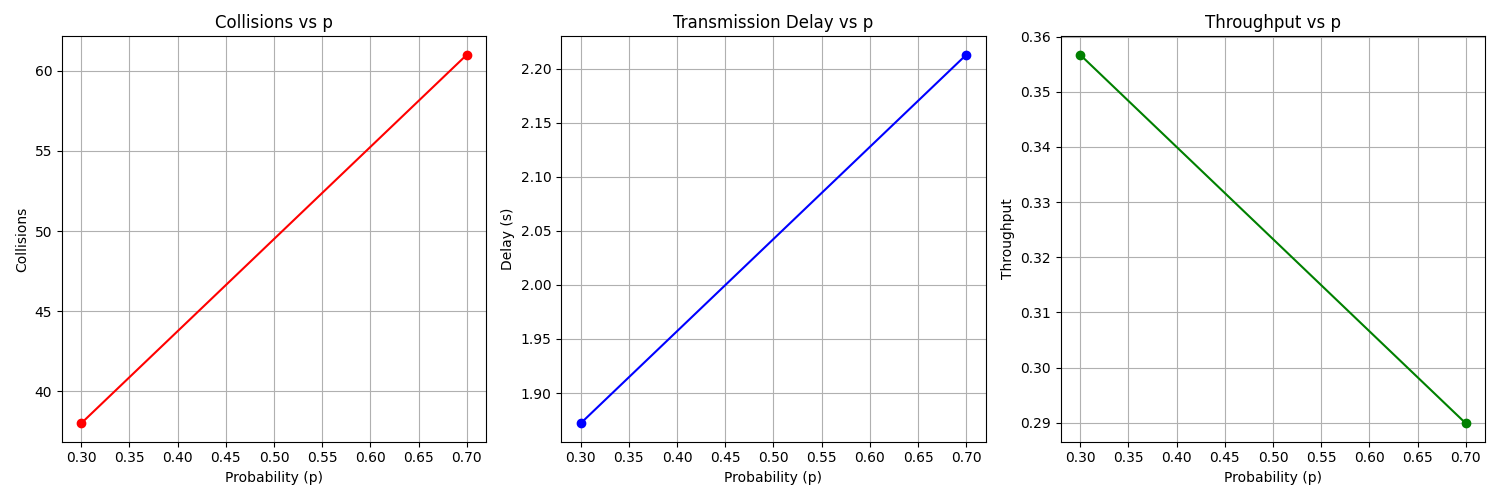
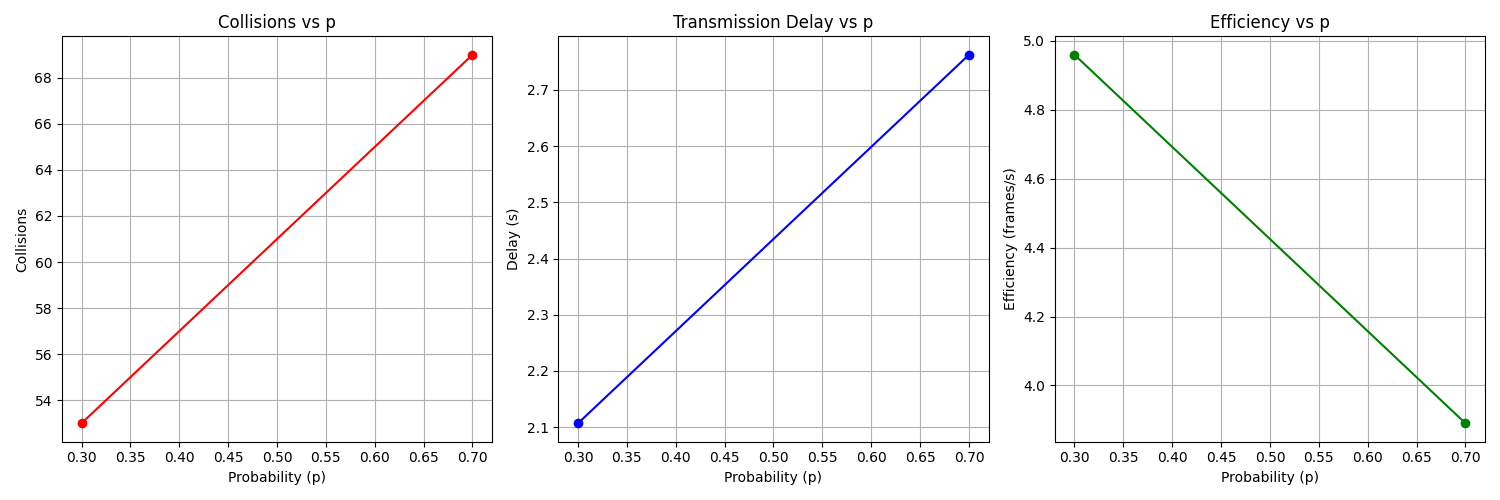
Assignment 3 images

diff --git a/a3/simulate.py b/a3/simulate.py
@@ -32,6 +32,7 @@ def run_simulation(strategy, n_stations, p=0.5, frames_per_station=5, port=8000)
     # Wait for all stations to finish and collect their outputs
     total_delay = 0
     total_station_collisions = 0
+    total_efficiency = 0.0
     
     import re
     for i, proc in enumerate(station_procs):
@@ -40,23 +41,21 @@ def run_simulation(strategy, n_stations, p=0.5, frames_per_station=5, port=8000)
         # Parse stdout: Station st_X finished. Frames: 5, Collisions: 2, Avg Delay: 0.123s
         for raw_line in stdout.splitlines():
             line = re.sub(r'\x1b\[[0-9;]*[a-zA-Z]', '', raw_line)
-            if "Avg Delay:" in line:
+            if "Avg Delay:" in line and "Efficiency:" in line:
                 parts = line.split(",")
                 col_part = parts[1].split(":")[1].strip()
                 delay_part = parts[2].split(":")[1].strip().replace("s", "")
+                eff_part = parts[3].split(":")[1].strip().replace("frames/s", "").strip()
+                
                 total_station_collisions += int(col_part)
                 total_delay += float(delay_part)
+                total_efficiency += float(eff_part)
                 
     end_time = time.time()
     total_time = end_time - start_time
     
-    # We can compute throughput based on how much time was spent successfully transmitting
-    tx_time_per_frame = 0.1
-    total_frames = n_stations * frames_per_station
-    successful_tx_time = total_frames * tx_time_per_frame
-    throughput = successful_tx_time / total_time if total_time > 0 else 0
-    
     avg_delay = total_delay / n_stations if n_stations > 0 else 0
+    throughput = total_efficiency # Total frames/s across all stations
     
     # Stop channel
     import socket

diff --git a/a3/station.py b/a3/station.py
@@ -15,6 +15,7 @@ except Exception:
 class Colors:
     GREEN = '\033[92m'
     RED = '\033[91m'
+    \
     YELLOW = '\033[93m'
     CYAN = '\033[96m'
     BLUE = '\033[94m'
@@ -234,10 +235,12 @@ class Station:
             time.sleep(self.slot_time * random.randint(1, 4))
             
         self.end_time = time.time()
-        delay = (self.end_time - self.start_time) / self.total_frames if self.total_frames > 0 else 0
+        total_time = self.end_time - self.start_time
+        delay = total_time / self.total_frames if self.total_frames > 0 else 0
+        efficiency = self.total_frames / total_time if total_time > 0 else 0
         
         print("-" * 75)
-        print(f"Station {self.station_id} finished. Frames: {self.total_frames}, Collisions: {self.collisions}, Avg Delay: {delay:.3f}s")
+        print(f"Station {self.station_id} finished. Frames: {self.total_frames}, Collisions: {self.collisions}, Avg Delay: {delay:.3f}s, Efficiency: {efficiency:.2f} frames/s")
         
 if __name__ == "__main__":
     parser = argparse.ArgumentParser()

diff --git a/a3/visualize.py b/a3/visualize.py
@@ -32,9 +32,9 @@ def main():
         
         plt.subplot(1, 3, 3)
         plt.plot(df_p['p'], df_p['throughput'], marker='o', color='green')
-        plt.title('Throughput vs p')
+        plt.title('Efficiency vs p')
         plt.xlabel('Probability (p)')
-        plt.ylabel('Throughput')
+        plt.ylabel('Efficiency (frames/s)')
         plt.grid(True)
         
         plt.tight_layout()
@@ -45,8 +45,8 @@ def main():
     # 2. All schemes vs N
     schemes = ["non-persistent", "1-persistent", "p-persistent", "csmacd"]
     metrics = ['collisions', 'avg_delay', 'throughput']
-    titles = ['Collisions vs N', 'Avg Transmission Delay vs N', 'Throughput vs N']
-    ylabels = ['Collisions', 'Delay (s)', 'Throughput']
+    titles = ['Collisions vs N', 'Avg Transmission Delay vs N', 'Efficiency vs N']
+    ylabels = ['Collisions', 'Delay (s)', 'Efficiency (frames/s)']
     
     plt.figure(figsize=(15, 5))
     
